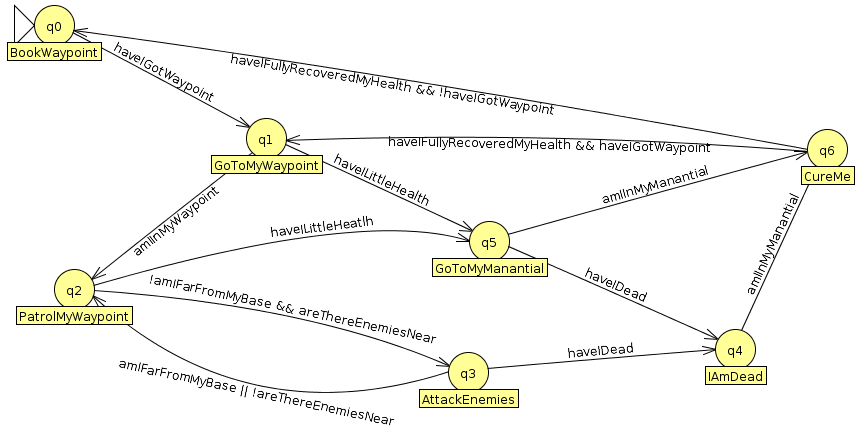
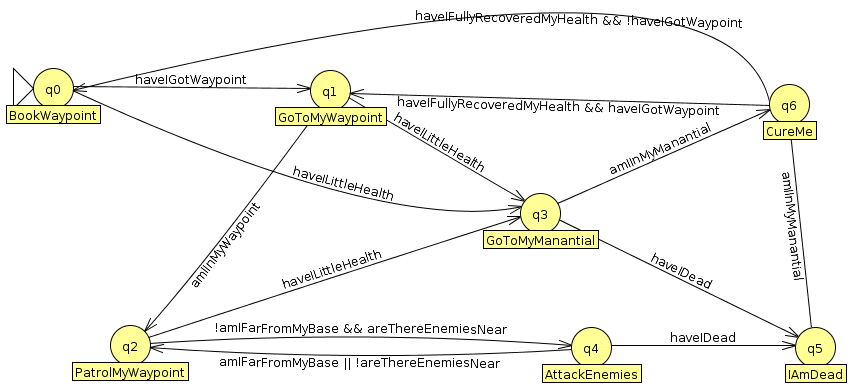
SRC: Arquero defensivo modificado para añadirle la transición de que si está en el estado BookWaypoint y tiene poca vida, vaya al manantial a curarse. DOC: Añadida el nuevo esquema de la máquina de estados y documentado.

diff --git a/doc/secciones/roles.tex b/doc/secciones/roles.tex
@@ -47,7 +47,7 @@ La interfaz \texttt{StateMachine} proporciona varios métodos para poder realiza
 
 Al crear la máquina de estados, esta pide que se indique el objeto ``propietario'' de la máquina de estados; esto es, el objeto que la máquina pasa como parámetro en los métodos de la interfaz \texttt{State}. Para introducirle los estados que nosotros queremos a la máquina de estados, hemos tenido que crear clases concretas que implementaran la interfaz \texttt{State} anteriormente mencionada. Para todos los estados, la entidad que recibe como parámetro es de la clase \texttt{Character}. \\
 
-Por último, en las Figuras \ref{defensivos:soldado} y \ref{defensivos:arquero} se muestran las máquinas de estados concretas para los soldados y arqueros defensivos. La idea que hay detrás de estos roles es que ambos tienen que patrullar una zona (los soldados patrullan su base, los arqueros patrullan los waypoints de los puentes), hasta que se encuentran a un enemigo cerca y lo atacan, siempre y cuando no estén lejos de su base/waypoint. Como se trata de un rol defensivo, estos van a estar atacando hasta que se mueran. Por último, debido a que hay 6 waypoints para cada patrullar, si hay más arqueros defensivos que waypoints, estos se quedarán a la espera (haciendo cosas aleatorias) de que uno se libere para cogerlo.
+Por último, en las Figuras \ref{defensivos:soldado} y \ref{defensivos:arquero} se muestran las máquinas de estados concretas para los soldados y arqueros defensivos. La idea que hay detrás de estos roles es que ambos tienen que patrullar una zona (los soldados patrullan su base, los arqueros patrullan los waypoints de los puentes), hasta que se encuentran a un enemigo cerca y lo atacan, siempre y cuando no estén lejos de su base/waypoint. Como se trata de un rol defensivo, estos van a estar atacando hasta que se mueran. Por último, debido a que hay 6 waypoints para cada patrullar, si hay más arqueros defensivos que waypoints, estos se quedarán a la espera (haciendo cosas aleatorias) de que uno se libere para cogerlo. Tanto en el caso del arquero como en el soldado, cuando están yendo hacia un lugar determinado, o en el caso del arquero cuando está a la espera de reservar un waypoint, si se acerca cualquier enemigo o si le atacan, el personaje no hará caso y seguirá haciendo su acción correspondiente. El motivo principal de esta decisión es que al tratarse de roles defensivos, su misión es defender tanto la base como los waypoints de los puentes. Por lo que su prioridad es ir hacia esos puntos y una vez allí atacar a todos los enemigos que se acerquen.
 \begin{figure}[!th]
 \includegraphics[scale=0.6]{defensive-soldier}
 \centering
@@ -61,6 +61,7 @@ Por último, en las Figuras \ref{defensivos:soldado} y \ref{defensivos:arquero} 
 \label{defensivos:arquero}
 \end{figure}
 
+\newpage
 Es importante destacar los siguientes puntos:
 \begin{itemize}
  \item Si no se cumplen las condiciones necesarias en el estado actual, no se cambia de estado. De ahí que no haya transiciones en las figuras sobre los propios estados. Cuando no se cambia de estado, exceptuando el estado \texttt{AttackEnemies} y los que requieren el uso del Pathfinding, la máquina de estados no se actualiza, ya que cuando se entró al estado, se calcularon los comportamientos correspondientes y el personaje sigue haciendo lo mismo, por lo que no es necesario calcularlo de nuevo.
@@ -74,6 +75,8 @@ Es importante destacar los siguientes puntos:
  \item En el estado \texttt{BookWaypoint} mientras que espera a tener un waypoint libre, el personaje lo que hace es moverse de manera aleatoria (aplicando un Wander), para evitar que se quede parado.
  
  \item Debido a que los arqueros defensivos tienen que reservar el waypoint que tienen que patrullar, solamente se va a liberar un waypoint cuando el arquero que lo está patrullando muere. Es decir, entrar al estado \texttt{IAmDead} implica que el arquero deja libre su waypoint para que otro pueda cogerlo. Sin embargo, cuando un arquero entra al estado \texttt{GoToMyManantial} porque quiere curarse, no se libera el waypoint porque no ha muerto. 
+ 
+ \item Los estados de patrulla \texttt{PatrolMyBase y PatrolMyWaypoint}, en ambos casos, consiste en realizar un seguimiento de los waypoints establecidos. En el caso de las bases son waypoints alrededor de la base, mientras que en el caso de los puentes, un arquero patrulla el waypoint que tiene reservado y su vecino.
  
  \item Consideramos que de primeras, los soldados se encuentran en la base (o cerca de ella), por lo que en su estado inicial no se hace ningún Pathfinding. En cambio, como los arqueros, mientras que no tienen un waypoint que patrullar, se mueven de manera aleatoria, cuando reserva un waypoint, sí se calcula un Pathfinding para ir a él, porque pueden estar en la otra punta del mapa.
 \end{itemize}

diff --git a/core/src/com/mygdx/iadevproject/aiTactical/roles/DefensiveArcher.java b/core/src/com/mygdx/iadevproject/aiTactical/roles/DefensiveArcher.java
@@ -65,7 +65,11 @@ public class DefensiveArcher extends Archer {
 			// Estamos en el estado -> Reservar waypoint (y hacer lo que sea)
 			
 			// Solo cambio de estado, si ocurre lo siguiente:
-			if (Checks.haveIGotWayPoint(source)) {
+			if (Checks.haveILittleHealth(source)) {
+				// Si me queda poca vida, cambio al estado -> Ir al manatial
+				this.stateMachine.changeState(this.goToMyManantial);
+				
+			} else if (Checks.haveIGotWayPoint(source)) {
 				// Si tengo waypoint, cambio al estado -> Ir a mi waypoint
 				this.stateMachine.changeState(this.goToMyWayPoint);
 			}

diff --git a/core/src/com/mygdx/iadevproject/aiTactical/roles/states/BookWaypoint.java b/core/src/com/mygdx/iadevproject/aiTactical/roles/states/BookWaypoint.java
@@ -22,7 +22,7 @@ public class BookWaypoint implements State<Character> {
 		// Reservamos un waypoint.
 		Actions.bookWaypoint(entity);
 		// Obtenemos los comportamientos de hacer lo que queramos:
-		Map<Float, Behaviour> doRandom = Actions.doRandomThings(20.0f, entity);
+		Map<Float, Behaviour> doRandom = Actions.doRandomThings(100.0f, entity);
 		// Juntamos ambos comportamientos
 		behaviours.putAll(doRandom);
 		
